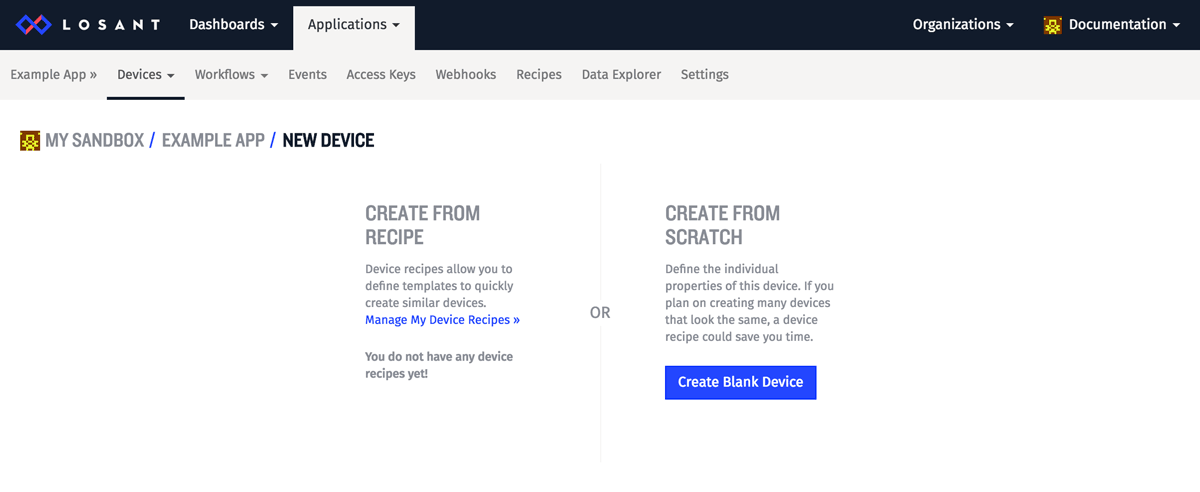
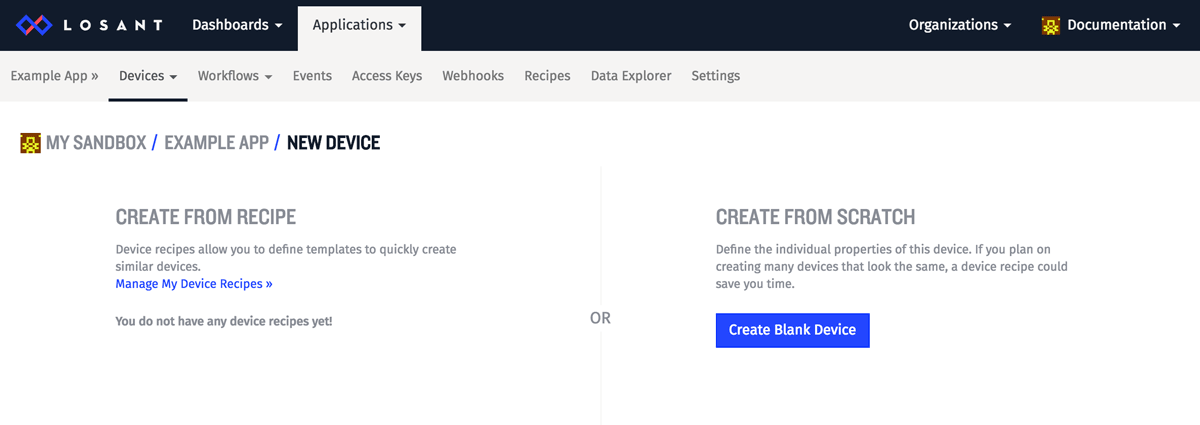
fix some images

diff --git a/docs/getting-started/losant-iot-dev-kits/builder-kit-nodevember.md b/docs/getting-started/losant-iot-dev-kits/builder-kit-nodevember.md
@@ -111,7 +111,7 @@ The next step is to register the builder kit device with the platform. Click the
 
 Next, choose the `Create Blank Device` option.
 
-![Create From Scratch](/images/getting-started/losant-iot-dev-kits/moisture-sensor/add-from-scratch.png "Create From Scratch")
+![Create From Scratch](/images/getting-started/losant-iot-dev-kits/builder-kit/add-from-scratch.png "Create From Scratch")
 
 ![Add Device Name](/images/getting-started/losant-iot-dev-kits/builder-kit/add-device-name.png "Add Device Name")
 

diff --git a/docs/getting-started/losant-iot-dev-kits/builder-kit-salesforce.md b/docs/getting-started/losant-iot-dev-kits/builder-kit-salesforce.md
@@ -101,7 +101,7 @@ The next step is to register the builder kit <a href="https://docs.losant.com/de
 
 Next, choose the `Create Blank Device` option.
 
-![Create From Scratch](/images/getting-started/losant-iot-dev-kits/moisture-sensor/add-from-scratch.png "Create From Scratch")
+![Create From Scratch](/images/getting-started/losant-iot-dev-kits/builder-kit/add-from-scratch.png "Create From Scratch")
 
 ![Add Device Name](/images/getting-started/losant-iot-dev-kits/builder-kit/add-device-name.png "Add Device Name")
 

diff --git a/docs/getting-started/losant-iot-dev-kits/builder-kit-feather.md b/docs/getting-started/losant-iot-dev-kits/builder-kit-feather.md
@@ -49,7 +49,7 @@ The next step is to register the builder kit device with the platform. Click the
 
 Next, choose the `Create Blank Device` option.
 
-![Create From Scratch](/images/getting-started/losant-iot-dev-kits/moisture-sensor/add-from-scratch.png "Create From Scratch")
+![Create From Scratch](/images/getting-started/losant-iot-dev-kits/builder-kit/add-from-scratch.png "Create From Scratch")
 
 ![Add Device Name](/images/getting-started/losant-iot-dev-kits/builder-kit/add-device-name.png "Add Device Name")
 

diff --git a/docs/getting-started/losant-iot-dev-kits/builder-kit.md b/docs/getting-started/losant-iot-dev-kits/builder-kit.md
@@ -49,7 +49,7 @@ The next step is to register the builder kit device with the platform. Click the
 
 Next, choose the `Create Blank Device` option.
 
-![Create From Scratch](/images/getting-started/losant-iot-dev-kits/moisture-sensor/add-from-scratch.png "Create From Scratch")
+![Create From Scratch](/images/getting-started/losant-iot-dev-kits/builder-kit/add-from-scratch.png "Create From Scratch")
 
 ![Add Device Name](/images/getting-started/losant-iot-dev-kits/builder-kit/add-device-name.png "Add Device Name")
 
